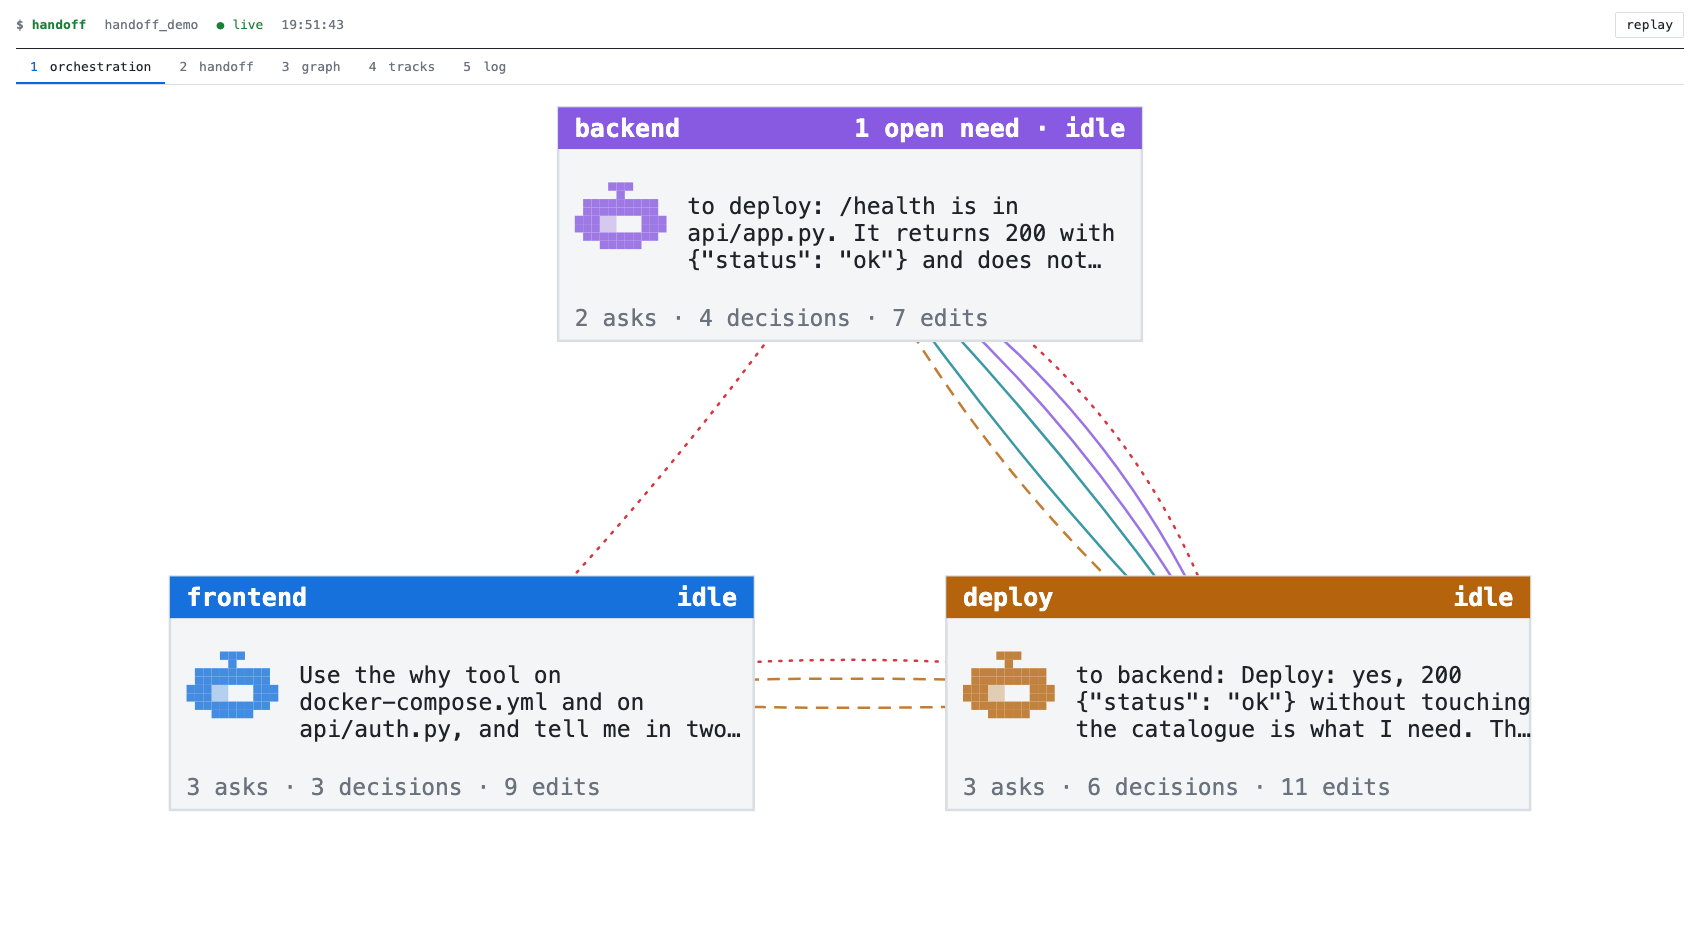
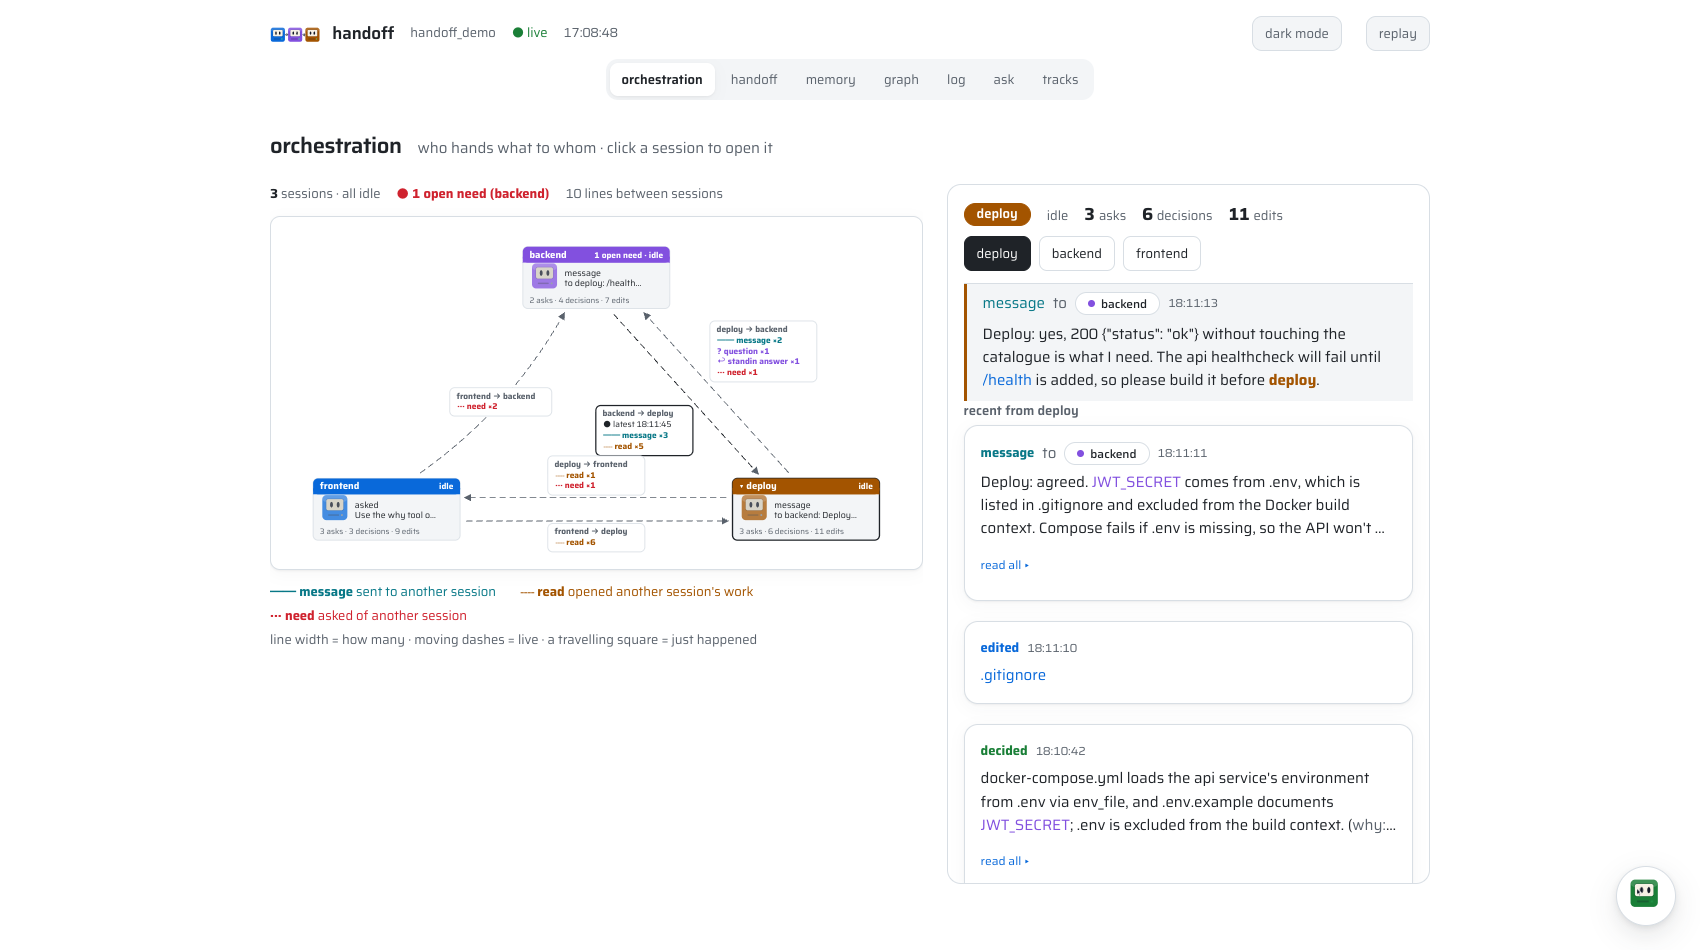
docs: README screenshots of the redesigned dashboard, with Log and Ask rows

diff --git a/README.md b/README.md
@@ -71,9 +71,11 @@ the terminals. It reads the same graph the sessions write, every 1.5 seconds, an
 | **Handoff**: a workflow graph of who read whose work, an arrow per reader and author with how many decisions travelled; click an arrow for the hand-off cards | ![context handoff](docs/images/mission-handoff.png) |
 | **Memory**: the six kinds of memory with counts, and what each session holds right now: its task, what it learned from others, what reached it | ![memory](docs/images/mission-memory.png) |
 | **Graph**: the shared graph drawn with force-graph (drag, zoom, pan), links coloured and named by relationship, with cards for the selected node and its connections (a connect button walks the graph), and the concept graph and each kind of memory | ![context graph](docs/images/mission-graph.png) |
+| **Log**: a swimlane on a shared time axis, one column per session; an empty cell means that session did nothing then | ![log](docs/images/mission-log.png) |
+| **Ask**: a chat with the graph in plain words; Claude Code writes the Cypher and shows it | ![ask](docs/images/mission-ask.png) |
 | **Tracks**: how handoff answers each competition track, with live numbers | ![tracks](docs/images/mission-tracks.png) |
 
-The **Log** is a swimlane on a shared time axis: events that happened together share a row, an empty cell means that session did nothing then, and quiet stretches are marked. Click an event for its full text. **Ask** is a chat with the graphs: every question goes to Claude Code, which writes read-only Cypher. The bot button (or `/`) opens the same chat in a right-hand panel on any page, using that page as context, and the conversation is kept on the Ask page (and in this browser, so a reload does not lose it; "new chat" clears it). The `$` field at the bottom of every page also takes `msg <session> …`, `need <session> …` and `go <page>`. The type is Saira throughout, served from your machine. Nothing leaves your machine: the page is served from `127.0.0.1` only.
+In the **Log**, events that happened together share a row and quiet stretches are marked; click an event for its full text. **Ask** is a chat with the graphs: every question goes to Claude Code, which writes read-only Cypher. The bot button (or `/`) opens the same chat in a right-hand panel on any page, using that page as context, and the conversation is kept on the Ask page (and in this browser, so a reload does not lose it; "new chat" clears it). The `$` field at the bottom of every page also takes `msg <session> …`, `need <session> …` and `go <page>`. The type is Saira throughout, served from your machine. Nothing leaves your machine: the page is served from `127.0.0.1` only.
 
 ## The commands
 
